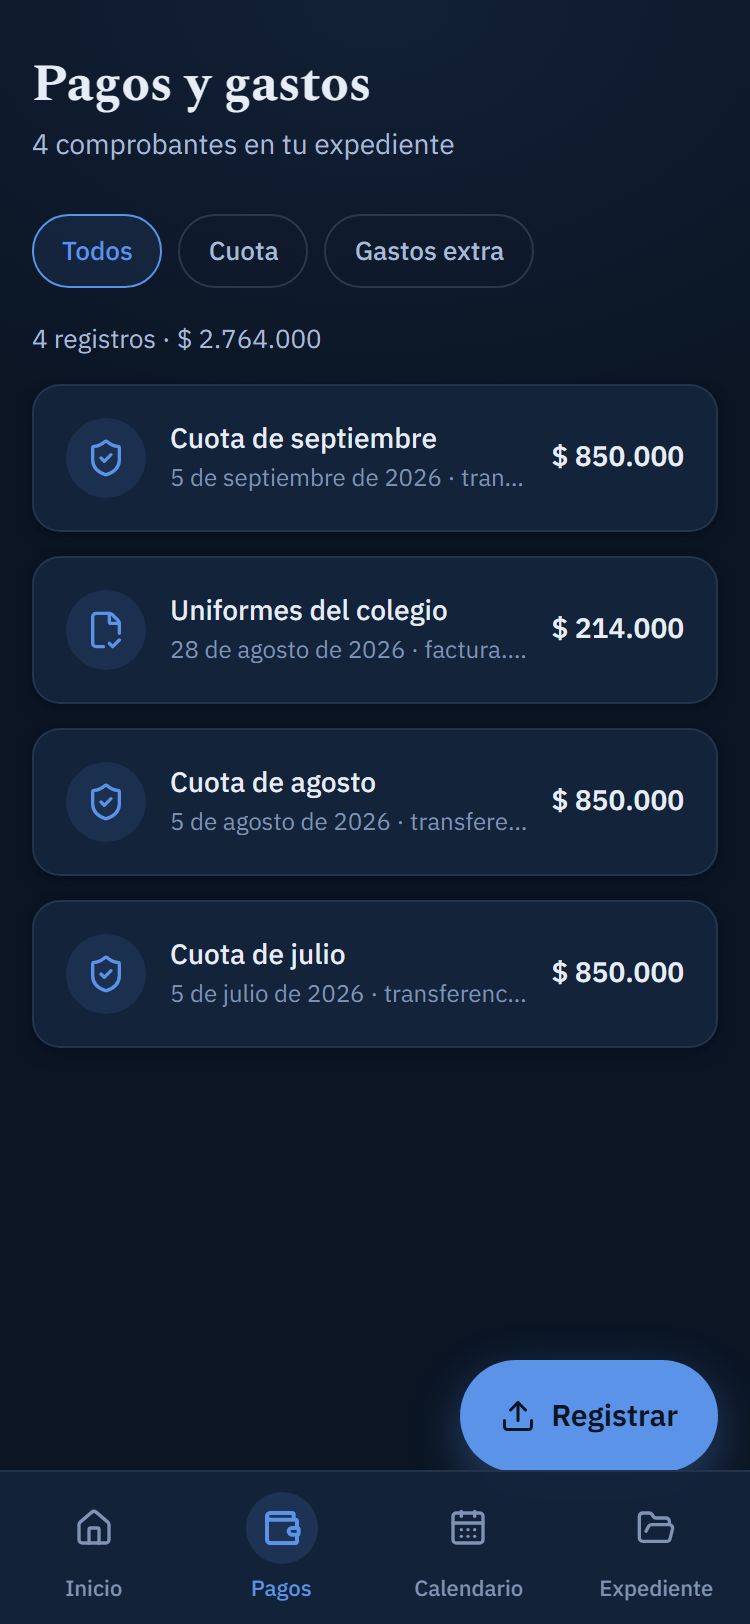
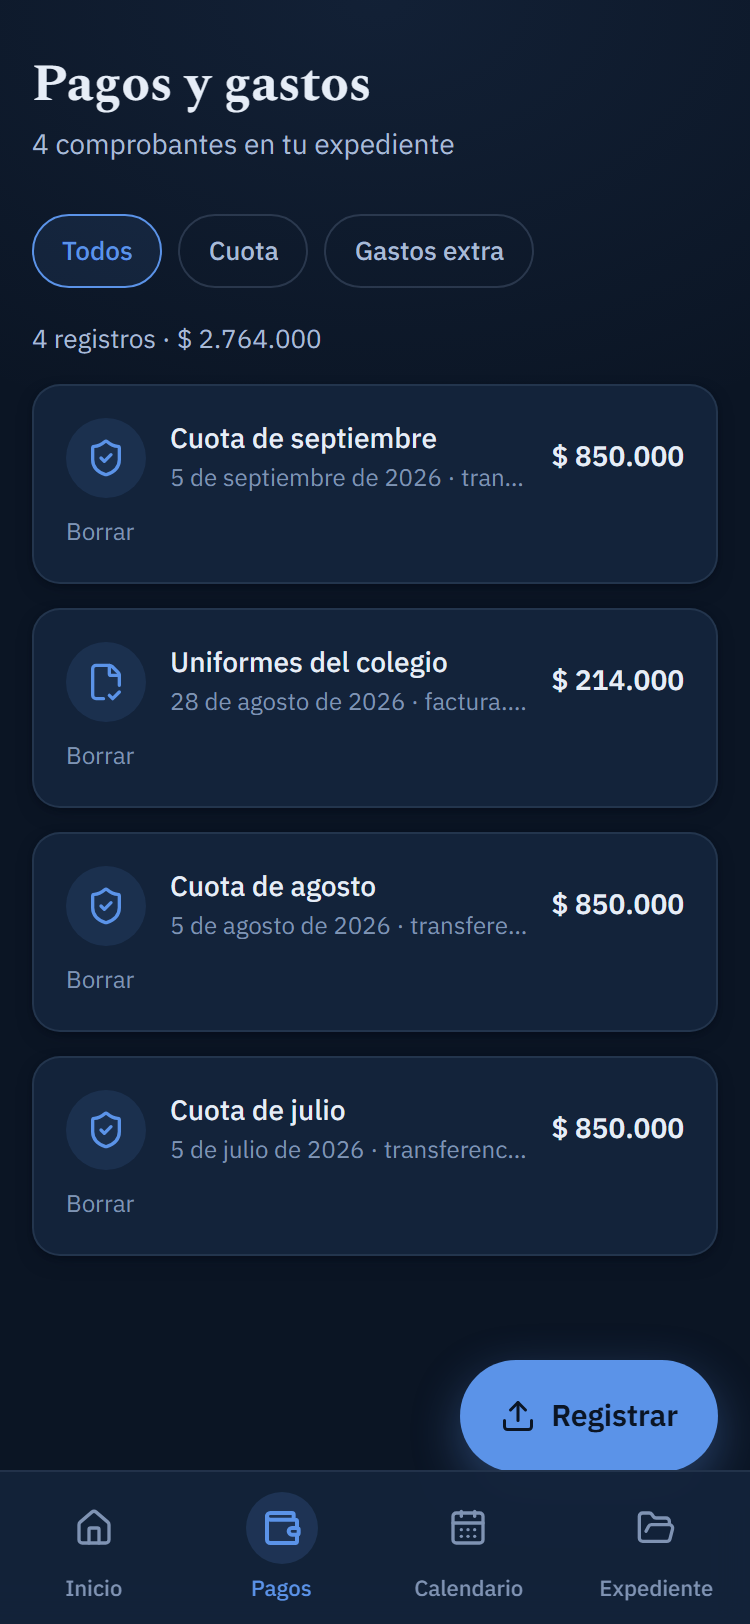
feat: borrar un registro, y arreglos del veredicto de Inicio
El revisor encontro que un registro NO se podia corregir ni borrar en
ninguna pantalla: una foto equivocada -la del recibo del vecino, una
captura mal tomada, un duplicado- quedaba para siempre en el expediente
que se lleva a un juzgado, y ahora ademas se incrusta en el PDF que
recibe el abogado. Un registro que no se puede corregir no es un
expediente confiable.

- Nuevo eliminarPago: borra la fila Y su archivo de Storage. El archivo
  primero, para no dejar huerfanos si algo falla en el medio.
- Confirmacion en dos pasos dentro de la propia tarjeta (irreversible).
- La fila se quita de la lista solo cuando el borrado real termino bien.

Ademas, de su veredicto:
- Mi arreglo de estados de error estaba a MEDIAS: <ErrorDeCarga> tapaba
  el anillo y las cifras, pero debajo se seguia pintando 'Todavia no hay
  movimientos'. Quitaba la mentira arriba y la reimprimia abajo. Ahora
  el error tapa el dashboard entero.
- La accion primaria vivia al final del scroll y rompia el patron del
  propio kit (Pagos y Calendario usan BotonFlotante siempre visible):
  Inicio ahora se comporta igual que sus hermanas.
- El alta guardaba 'Number(dia) || 1' sin validar rango, mientras el
  editor de Ajustes si valida 1-31: dos puertas al mismo dato con reglas
  distintas, y se podia guardar 'dia 45'. Misma validacion en ambas.
- obtenerTitulo() en primeros pasos no tenia .catch (rechazo sin manejar)
  y guardarTitulo tampoco: ahora avisa que fallo y que hacer.

Changed region(s): [[0.0307, 0.3079, 0.9507, 0.7697], [0.736, 0.6773, 0.92, 0.7081]]

diff --git a/app/(app)/pagos/page.tsx b/app/(app)/pagos/page.tsx
@@ -16,6 +16,7 @@ import {
   type TipoMovimiento,
   obtenerPagos,
   agregarPago,
+  eliminarPago,
   obtenerTitulo,
   obtenerUrlArchivo,
   formatoCOP,
@@ -36,6 +37,26 @@ export default function Pagos() {
   const [selloDe, setSelloDe] = useState<string | null>(null);
   const [falloCarga, setFalloCarga] = useState(false);
   const [intento, setIntento] = useState(0);
+  const [confirmandoBorrado, setConfirmandoBorrado] = useState<string | null>(null);
+  const [borrando, setBorrando] = useState<string | null>(null);
+  const [errorBorrado, setErrorBorrado] = useState<string | null>(null);
+
+  const borrarPago = async (p: Pago): Promise<void> => {
+    if (borrando) return;
+    setBorrando(p.id);
+    setErrorBorrado(null);
+    try {
+      await eliminarPago(p);
+      // Se quita de la lista SOLO después de que el borrado real terminó bien: adelantarse
+      // mostraría como eliminado algo que sigue en el expediente.
+      setPagos((prev) => prev.filter((x) => x.id !== p.id));
+      setConfirmandoBorrado(null);
+    } catch {
+      setErrorBorrado('No pudimos borrar el registro. Revisa tu conexión e inténtalo de nuevo.');
+    } finally {
+      setBorrando(null);
+    }
+  };
 
   // Un fallo de red mostraba la lista VACIA, indistinguible de "no tienes comprobantes".
   useEffect(() => {
@@ -107,7 +128,7 @@ export default function Pagos() {
             <p className="text-[14px] text-[var(--text-secondary)]">Todavía no tienes registros en esta categoría.</p>
           </Tarjeta>
         )}
-        {visibles.map((p) => {
+        {visibles.map((p, i) => {
           const contenido = (
             <>
               <IconoCirculo icon={p.tipo === 'cuota' ? ShieldCheck : FileCheck2} />
@@ -121,26 +142,66 @@ export default function Pagos() {
               )}
             </>
           );
-          if (!p.comprobantePath) {
-            return (
-              <Tarjeta key={p.id} className="flex items-center gap-3">
-                {contenido}
-              </Tarjeta>
-            );
-          }
+
           return (
-            <button
-              key={p.id}
-              type="button"
-              onClick={() => verComprobante(p)}
-              disabled={abriendo === p.id}
-              className="text-left [touch-action:manipulation]"
-            >
-              <Tarjeta className="flex items-center gap-3">{contenido}</Tarjeta>
-            </button>
+            <Tarjeta key={p.id} indice={i} className="flex flex-col gap-2">
+              {p.comprobantePath ? (
+                <button
+                  type="button"
+                  onClick={() => verComprobante(p)}
+                  disabled={abriendo === p.id}
+                  className="flex items-center gap-3 text-left [touch-action:manipulation]"
+                >
+                  {contenido}
+                </button>
+              ) : (
+                <div className="flex items-center gap-3">{contenido}</div>
+              )}
+
+              {/* BORRAR — no existía ninguna forma de corregir un registro. Una foto equivocada
+                  quedaba para siempre en el expediente que se lleva a un juzgado, y ahora además
+                  se incrusta en el PDF que recibe el abogado. Confirmación en dos pasos porque es
+                  irreversible (regla 8 del SO: confirmar solo lo que no se puede deshacer). */}
+              {confirmandoBorrado === p.id ? (
+                <div className="flex items-center gap-2 border-t border-[color-mix(in_oklab,var(--text-tertiary)_14%,transparent)] pt-2">
+                  <p className="flex-1 text-[12.5px] text-[var(--text-secondary)]">
+                    ¿Borrar este registro y su comprobante?
+                  </p>
+                  <button
+                    type="button"
+                    onClick={() => setConfirmandoBorrado(null)}
+                    disabled={borrando === p.id}
+                    className="h-9 rounded-[var(--radius-button)] px-3 text-[12.5px] font-medium text-[var(--text-secondary)] [touch-action:manipulation]"
+                  >
+                    No
+                  </button>
+                  <button
+                    type="button"
+                    onClick={() => borrarPago(p)}
+                    disabled={borrando === p.id}
+                    className="h-9 rounded-[var(--radius-button)] bg-[var(--status-error)] px-3 text-[12.5px] font-semibold text-white transition-opacity disabled:opacity-60 [touch-action:manipulation]"
+                  >
+                    {borrando === p.id ? 'Borrando…' : 'Sí, borrar'}
+                  </button>
+                </div>
+              ) : (
+                <button
+                  type="button"
+                  onClick={() => setConfirmandoBorrado(p.id)}
+                  aria-label={`Borrar ${p.concepto}`}
+                  className="self-end text-[12px] text-[var(--text-tertiary)] underline-offset-2 hover:underline [touch-action:manipulation]"
+                >
+                  Borrar
+                </button>
+              )}
+            </Tarjeta>
           );
         })}
       </div>
+
+      {errorBorrado && (
+        <p role="alert" className="mt-3 text-[12.5px] text-[var(--status-error)]">{errorBorrado}</p>
+      )}
 
       <BotonFlotante onClick={() => setModalAbierto(true)}>
         <Upload size={18} aria-hidden="true" />

diff --git a/app/(app)/inicio/page.tsx b/app/(app)/inicio/page.tsx
@@ -11,7 +11,8 @@ import { Upload, Check, CalendarClock, ShieldCheck, ChevronRight, FileCheck2, Gl
 import { MiniRing } from '@/components/landing/ui';
 import { BarraAtras, Halo } from '@/components/funnel/ui';
 import Link from 'next/link';
-import { ContenedorApp, PageHeader, Tarjeta, IconoCirculo, Pildora, TarjetaSkeleton, NumeroContado, ErrorDeCarga } from '@/components/app/ui';
+import { useRouter } from 'next/navigation';
+import { ContenedorApp, PageHeader, Tarjeta, IconoCirculo, Pildora, TarjetaSkeleton, NumeroContado, ErrorDeCarga, BotonFlotante } from '@/components/app/ui';
 import {
   type Titulo,
   type Pago,
@@ -102,20 +103,38 @@ function PrimerosPasos({ onListo }: { onListo: () => void }) {
   // se retoma en el paso del comprobante — nunca se vuelve a pedir la cuota ni se salta al
   // dashboard con datos que no son del usuario.
   useEffect(() => {
-    obtenerTitulo().then((t) => {
-      if (t) setPaso('comprobante');
-    });
+    // Con `.catch`: sin él, un fallo aquí quedaba como rechazo sin manejar en la consola y la
+    // persona se quedaba en el paso 1 sin entender por qué (o repitiendo un título ya guardado).
+    obtenerTitulo()
+      .then((t) => {
+        if (t) setPaso('comprobante');
+      })
+      .catch(() => {
+        // Se queda en el paso 1: es el estado seguro. Si el título ya existía, `guardarTitulo`
+        // hace upsert, así que reintentarlo no duplica nada.
+      });
   }, []);
 
+  // Mismo rango que valida el editor de Ajustes. Sin esto se podía guardar "día 45" o monto 0 y el
+  // encabezado de Inicio lo mostraba tal cual: dos puertas al mismo dato con reglas distintas.
+  const montoNumero = Number(monto);
+  const diaNumero = Number(dia);
+  const tituloValido = montoNumero > 0 && diaNumero >= 1 && diaNumero <= 31;
+
   const confirmarTitulo = async (): Promise<void> => {
+    if (!tituloValido) return;
     const t: Titulo = {
-      montoMensual: Number(monto) || 0,
-      diaPago: Number(dia) || 1,
+      montoMensual: montoNumero,
+      diaPago: diaNumero,
       indiceReajuste: reajuste,
       fechaInicio: new Date().toISOString().slice(0, 10),
     };
-    await guardarTitulo(t);
-    setPaso('comprobante');
+    try {
+      await guardarTitulo(t);
+      setPaso('comprobante');
+    } catch {
+      setErrorSubida('No pudimos guardar tu cuota. Revisa tu conexión e inténtalo de nuevo.');
+    }
   };
 
   const subirComprobante = (f: File): void => {
@@ -210,7 +229,7 @@ function PrimerosPasos({ onListo }: { onListo: () => void }) {
 
           <motion.button
             type="button"
-            disabled={!monto || !dia}
+            disabled={!tituloValido}
             onClick={confirmarTitulo}
             whileTap={{ scale: 0.97 }}
             className="mt-8 flex h-14 w-full items-center justify-center rounded-[var(--radius-button)] bg-[var(--accent)] text-[16px] font-semibold text-[var(--bg)] transition-opacity disabled:opacity-40 [touch-action:manipulation]"
@@ -328,6 +347,7 @@ function mesesDesde(fechaISO: string): number {
 
 /* ── DASHBOARD — protagonista: el estado del expediente. Datos reales de lib/datos.ts. ── */
 function Dashboard() {
+  const router = useRouter();
   const [pagos, setPagos] = useState<Pago[]>([]);
   const [eventos, setEventos] = useState<Evento[]>([]);
   const [titulo, setTitulo] = useState<Titulo | null>(null);
@@ -495,6 +515,12 @@ function Dashboard() {
         </>
       )}
 
+      {/* TODO lo que sigue depende de los mismos datos: si la carga falló, mostrarlo sería volver
+          a decir la mentira que <ErrorDeCarga> acaba de desmentir arriba ("Todavía no hay
+          movimientos" cuando en realidad no se pudieron traer). El error tapa el dashboard entero,
+          no solo su primera mitad. */}
+      {!falloCarga && !cargando && (
+        <>
       {proximoEvento && (
         <Link href="/calendario" className="mt-3 block [touch-action:manipulation]">
           <Tarjeta className="flex items-center gap-3">
@@ -542,17 +568,19 @@ function Dashboard() {
         )}
       </div>
 
-      {/* Era la única acción primaria de la pantalla y quedaba cortada detrás del nav fijo en la
-          primera vista, además de ser el único botón del flujo SIN respuesta al toque. */}
-      <motion.div whileTap={{ scale: 0.98 }} className="mt-8">
-        <Link
-          href="/pagos"
-          className="flex h-14 w-full items-center justify-center gap-2 rounded-[var(--radius-button)] bg-[var(--accent)] text-[16px] font-semibold text-[var(--bg)] [touch-action:manipulation]"
-        >
+        </>
+      )}
+
+      {/* La acción primaria vivía al final del scroll: dejaba de verse apenas la lista crecía, y
+          rompía el patrón del propio kit — Pagos y Calendario usan <BotonFlotante> ("acción
+          primaria de la sección, SIEMPRE visible"). Ahora Inicio se comporta igual que sus
+          hermanas y el botón está siempre a la mano. */}
+      {!falloCarga && !cargando && (
+        <BotonFlotante onClick={() => router.push('/pagos')}>
           <Upload size={18} aria-hidden="true" />
-          Subir un comprobante
-        </Link>
-      </motion.div>
+          Registrar
+        </BotonFlotante>
+      )}
     </ContenedorApp>
   );
 }

diff --git a/lib/datos.ts b/lib/datos.ts
@@ -179,6 +179,24 @@ export async function obtenerPagos(): Promise<Pago[]> {
   return (data ?? []).map(mapPago);
 }
 
+// Elimina un movimiento y SU ARCHIVO. No existía ninguna forma de borrar: una foto equivocada
+// —la del recibo del vecino, una captura mal tomada, un duplicado— quedaba para siempre dentro del
+// expediente que se va a llevar a un juzgado, y ahora además se incrusta en el PDF que se le
+// entrega al abogado. Un registro que no se puede corregir no es un expediente confiable.
+// El archivo de Storage se borra ANTES que la fila: si se borrara después y algo fallara en el
+// medio, quedaría un archivo huérfano sin ninguna fila que lo referencie, imposible de encontrar.
+export async function eliminarPago(pago: Pago): Promise<void> {
+  const { supabase, userId } = await usuarioActual();
+
+  if (pago.comprobantePath) {
+    await supabase.storage.from('comprobantes').remove([pago.comprobantePath]);
+  }
+
+  const { error } = await supabase.from('pagos').delete().eq('id', pago.id).eq('user_id', userId);
+  if (error) throw error;
+  registrarEvento(supabase, userId, 'pago_eliminado');
+}
+
 // Valida tamaño/tipo ANTES de subir — mismo tope que se aplica del lado del servidor en el bucket
 // (supabase/fix-limites-storage.sql), para que el usuario vea un mensaje claro al elegir el
 // archivo en vez de un error de red genérico cuando Supabase lo rechace en el servidor.

diff --git a/docs/revisiones/pantalla-principal-veredicto.md b/docs/revisiones/pantalla-principal-veredicto.md
@@ -1,24 +1,35 @@
-# VEREDICTO revisor-visual — Pantalla principal (Inicio)
-Fecha: 2026-09-10 12:00
+# VEREDICTO revisor-visual — pantalla principal (Inicio)
+Fecha: 2026-09-10 18:40
 Screenshot: docs/revisiones/inicio-375.png
-Usabilidad: 22/40
-Craft: 15/20
+Usabilidad: 28/40
+Craft: 16/20
 Copy (si vende): N-A
 Fidelidad (si hubo referencia): N-A
 Veredicto: NO LISTA
 
-Detalle usabilidad: h1:2 h2:3 h3:2 h4:3 h5:2 h6:2 h7:2 h8:3 h9:1 h10:2
-Detalle craft: jerarquía:3 profundidad:3 identidad:3 movimiento:3 encaje:3
-Gate: ≥36/40 y ≥16/20 — falla ambos.
+Detalle usabilidad: h1:3 h2:3 h3:2 h4:3 h5:2 h6:3 h7:3 h8:3 h9:3 h10:3
+Detalle craft: jerarquía:3 profundidad:3 identidad:3 movimiento:4 encaje:3
 
 Top defectos:
-1. [Dashboard — carga de datos, `app/(app)/inicio/page.tsx:37-42` y `:286-294`] Ni un solo `.catch`: si Supabase falla, la red se cae o la sesión expiró, o el esqueleto pulsa para SIEMPRE (nunca se pone `listo`), o el expediente se pinta vacío ($0 · 0 comprobantes · "Todavía no hay movimientos") como si la persona no tuviera nada guardado — el miedo exacto del usuario. `obtenerPagos/obtenerEventos` además se tragan el `error` y devuelven `[]`, así que el estado vacío MIENTE. → Añadir estado de error con "Reintentar" + timeout en el arranque; nunca renderizar el vacío cuando la carga falló.
-2. [Primeros pasos — "Elegir archivo", `page.tsx:95-113`] Sube sin `validarArchivoAdjunto` (que SÍ usan Pagos y Calendario) y sin `.catch`: una foto de 20 MB o un .docx deja "Aplicando el Sello de Confianza a…" girando indefinidamente justo en la primera victoria. → Validar tamaño/tipo antes de subir y mostrar el fallo con qué hacer.
-3. [Encabezado — "Cuota de $ 850.000 · día 5"] La cuota no se puede editar en NINGUNA pantalla de la app (`guardarTitulo` solo se invoca en primeros pasos), pero el copy del paso 1 promete "puedes ajustarlo cuando quieras". → Hacer el subtítulo tocable hacia una hoja de edición del título.
-4. [CTA "Subir un comprobante", pie de pantalla] La única acción primaria queda cortada detrás de la nav fija en la primera vista y es un `<Link>` sin `whileTap` ni `:active` — los botones idénticos del flujo sí responden al tap. → Fijarlo sobre la nav (`sticky bottom-[calc(76px+env(safe-area-inset-bottom))]`) y darle feedback de tap.
-5. [Tarjeta del anillo — "Meses con registro 3 de 6"] El "6" es una meta inventada en código (`metaMeses = 6`), sin rótulo ni relación con el caso del usuario; y la pantalla no responde la pregunta diaria ("¿voy al día este mes?") — la `Pildora` semántica del kit no se usa en Inicio. → Explicar/derivar la meta y agregar píldora de estado del mes en curso.
+1. [Dashboard, estado de fallo] Con `falloCarga` en true se muestra `<ErrorDeCarga>` pero DEBAJO se
+   siguen pintando "Últimos movimientos" + el vacío "Todavía no hay movimientos" + el CTA: el mismo
+   mensaje "no tienes nada" que el arreglo #1 venía a matar → meter todo desde el h2 "Últimos
+   movimientos" hasta el CTA dentro del mismo ternario de `falloCarga`.
+2. [Primeros pasos / Pagos — lib/datos.ts] Un comprobante registrado es IRREVERSIBLE: no existe
+   `eliminarPago` ni edición en ninguna pantalla, y elegir el archivo sube y registra sin
+   previsualización ni confirmación → paso de revisión antes de guardar + "Eliminar comprobante"
+   con confirmación en Pagos.
+3. [Inicio, primera vista 375×812] La única acción primaria ("Subir un comprobante") queda fuera de
+   la primera vista, mientras Pagos y Calendario usan `BotonFlotante` siempre visible → usar el
+   mismo `BotonFlotante` (o CTA sticky) en Inicio.
+4. [Primeros pasos, paso 1] `confirmarTitulo` guarda `Number(dia)||1` y `Number(monto)||0` sin
+   validar rango (Ajustes sí lo hace): se puede guardar "día 45" y verlo en el header → reutilizar
+   la validación de `EditorCuota` antes de guardar.
+5. [Tarjeta del anillo + Ajustes] Desvío de FICHA-ARTE: la píldora "AL DÍA" es verde #63b58f cuando
+   la ficha declara éxito = #5B93E8 con ícono de check; y la flecha de Ajustes vuelve siempre a
+   /expediente aunque se entre desde Inicio → píldora azul con check (o firmar la excepción en la
+   ficha) + `router.back()`.
 
-Notas de verificación (lo declarado por quien construyó):
-- CONFIRMADO: `BarraAtras` con "Paso X de 2"; `tieneOnboardingCompleto` derivado de datos reales (título + ≥1 pago); `PageHeader` con `palabraClave`+`halo` (el marcador sobre "expediente" se ve claramente en el render); esqueleto de arranque y de carga; `NumeroContado` en los 3 números; `Tarjeta` con `indice` (escalonado); estado vacío real en "Últimos movimientos"; navegación con `Link`; luz ambiental al 9%; pulso de celebración condicionado a hito nuevo; `prefers-reduced-motion` respetado en todo (Tarjeta, NumeroContado, template, nav, celebración, skeleton).
-- MATIZADO: el escalonado no es una cascada coherente — la tarjeta del anillo y la de "Próximo" van con `indice` 0 y la lista de movimientos reinicia en 0, así que las tarjetas de abajo entran antes que las de arriba. El halo del header queda tapado por la luz ambiental (ambos aclaran la misma zona superior): el dispositivo ownable que se lee es el marcador, no el halo. La celebración se dispara en falso la primera vez que se abre la app en un navegador nuevo con datos ya existentes (la marca en localStorage arranca en 0).
-- DESVÍO DE FICHA-ARTE: la ficha declara "hairline degradada" como parte de la profundidad; `Tarjeta` usa un borde sólido plano. El tercer nivel de superficie (`--surface-2`, "hundido") existe en tokens y no se usa en esta pantalla.
+Menores verificados en código: `obtenerTitulo().then` de PrimerosPasos sin `.catch` (rechazo sin
+manejar), skeleton `aria-hidden` sin `aria-busy`/`aria-live`, `ErrorDeCarga` sin `role="alert"`,
+y sin estado vacío cuando no hay próximo evento (la tarjeta simplemente desaparece).
